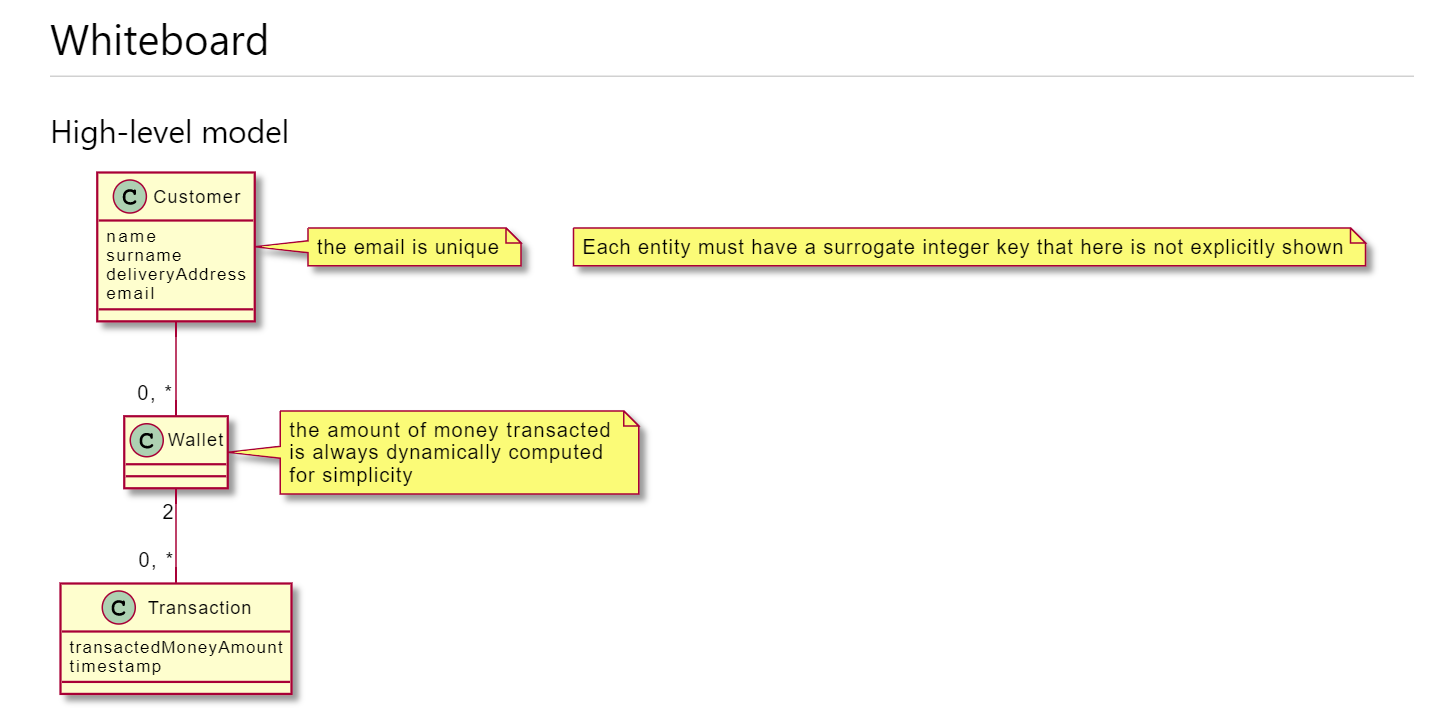
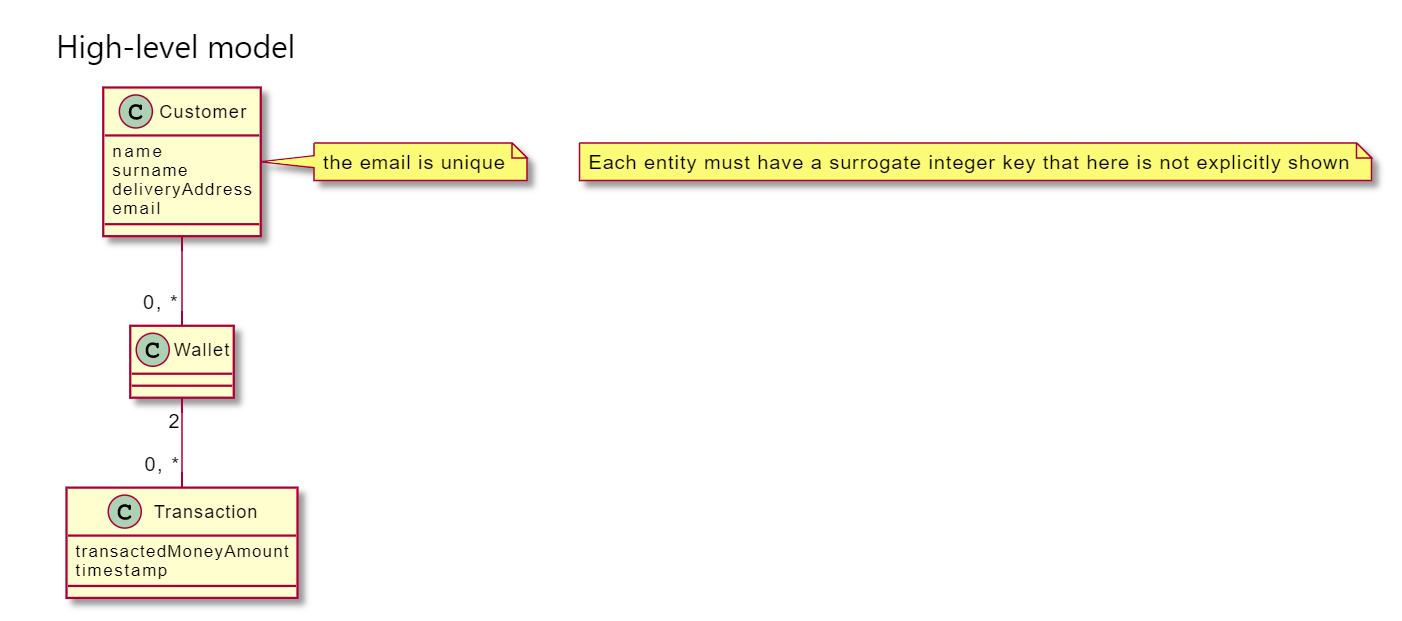
Update whiteboard, implement it
Prepare the entity classes, Spring builds
and runs successfully.

Changed region(s): [[0.0307, 0.0306, 1.0, 0.4589], [0.0613, 0.5201, 0.4601, 0.7037], [0.0307, 0.7343, 0.2454, 0.9791]]

diff --git a/src/main/kotlin/it/polito/group19/lab2/domain/Wallet.kt b/src/main/kotlin/it/polito/group19/lab2/domain/Wallet.kt
@@ -4,5 +4,5 @@ import javax.persistence.*
 import javax.validation.constraints.Min
 
 @Entity
-class Wallet(@Id @GeneratedValue var wid: Long, @Min(value = 0) var balance: Float, @ManyToOne(targetEntity = Customer::class, fetch=FetchType.LAZY) @JoinColumn(referencedColumnName = "cid") var customer: Customer, @OneToMany(targetEntity = Transaction::class, mappedBy = "tid") var recharges: MutableList<Transaction>, @OneToMany(targetEntity = Transaction::class, mappedBy = "tid") var purchases: MutableList<Transaction>) {
+class Wallet(@Id @GeneratedValue var wid: Long, @Min(value = 0) var balance: Float, @ManyToOne(targetEntity = Customer::class, fetch=FetchType.LAZY) @JoinColumn(referencedColumnName = "cid") var customer: Customer, @OneToMany(mappedBy = "creditor") var recharges: MutableList<Transaction>, @OneToMany(mappedBy = "debtor") var purchases: MutableList<Transaction>) {
 }

diff --git a/src/main/kotlin/it/polito/group19/lab2/domain/Transaction.kt b/src/main/kotlin/it/polito/group19/lab2/domain/Transaction.kt
@@ -5,5 +5,5 @@ import javax.persistence.*
 import javax.validation.constraints.Min
 
 @Entity
-class Transaction(@Id @GeneratedValue var tid: Long, @ManyToOne(targetEntity = Wallet::class, fetch = FetchType.LAZY) @JoinColumn(referencedColumnName = "wid") var debtor: Wallet, @ManyToOne(targetEntity = Wallet::class, fetch = FetchType.LAZY) @JoinColumn(referencedColumnName = "wid") var creditor: Wallet, @Min(value = 0) var transactedMoneyAmount: Float, var timestamp: LocalDateTime) {
+class Transaction(@Id @GeneratedValue var tid: Long, @Min(value = 0) var transactedMoneyAmount: Float, var timestamp: LocalDateTime, @ManyToOne var creditor: Wallet, @ManyToOne var debtor: Wallet) {
 }

diff --git a/docs/design/whiteboard.md b/docs/design/whiteboard.md
@@ -22,7 +22,6 @@ Customer -- "0, *"  Wallet
 Wallet "2" -- "0, *" Transaction
 
 note "Each entity must have a surrogate integer key that here is not explicitly shown" as N1
-note right of Wallet: the amount of money transacted \nis always dynamically computed \nfor simplicity
 note right of Customer: the email is unique
 
 @enduml
@@ -39,14 +38,11 @@ class Customer {
     surname
     deliveryAddress
     email
-    wallets: Wallet[]
 }
 class Wallet {
     id
     balance
     customer: Customer
-    recharges: Transaction[]
-    purchases: Transaction[]
 }
 class Transaction {
     id
@@ -56,11 +52,10 @@ class Transaction {
     timestamp
 }
 
-Customer -- "0, *"  Wallet
-Wallet "2" -- "0, *" Transaction
+Customer <-- "0, *"  Wallet
+Wallet "2" <-- "0, *" Transaction
 
 note "Each entity must have a surrogate integer key that here is not explicitly shown" as N1
-note right of Wallet: the amount of money transacted \nis always dynamically computed \nfor simplicity
 note right of Customer: the email is unique
 
 @enduml
